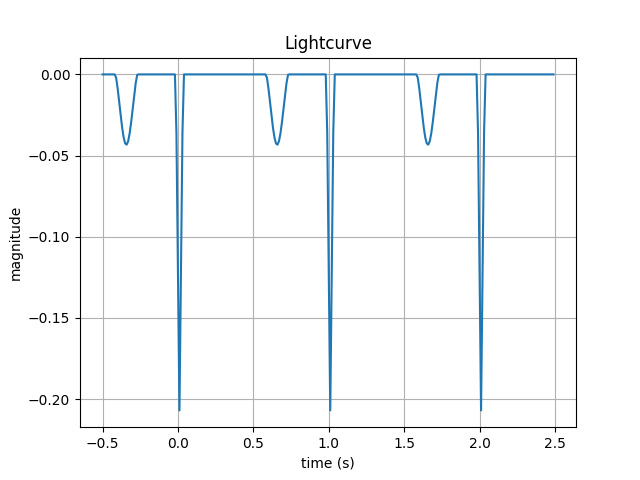
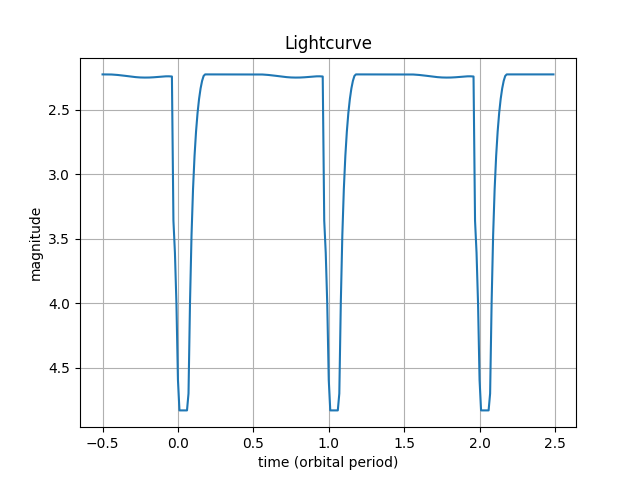
Added support for different types of stars

diff --git a/lightcurve/__init__.py b/lightcurve/__init__.py
@@ -1,0 +1,132 @@
+from scipy.optimize import fsolve
+import numpy as np
+
+V_SUN = 4.83
+
+class Orbit:
+    def __init__(self, a: float, e: float, i: float, Omega: float, omega: float):
+        """
+        # Parameters
+        a: semi-major axis (AU)
+        e: eccentricity
+        i: inclination
+        Omega: longitude of the ascending node
+        omega: argument of periapsis
+        """
+        self.a = a
+        self.e = e
+        self.i = i
+        self.Omega = Omega
+        self.omega = omega
+        m3 = np.array([[np.cos(Omega), np.sin(Omega), 0], [-np.sin(Omega), np.cos(Omega), 0], [0, 0, 1]])
+        m2 = np.array([[1, 0, 0], [0, np.cos(i), np.sin(i)], [0, -np.sin(i), np.cos(i)]])
+        m1 = np.array([[np.cos(omega), np.sin(omega), 0], [-np.sin(omega), np.cos(omega), 0], [0, 0, 1]])
+        m = (m1 @ m2 @ m3).T
+        self.conversion = m
+
+    def init_primaries(self, M1: float, M2: float, R1: float, R2: float, L1: float, L2: float):
+        """
+        Initialize the properties of the two primaries
+        
+        # Parameters
+        M1: mass of the first primary (solar mass)
+        M2: mass of the second primary (solar mass)
+        R1: radius of the first primary (solar radius)
+        R2: radius of the second primary (solar radius)
+        L1: luminosity of the first primary (solar luminosity)
+        L2: luminosity of the second primary (solar luminosity)
+        """
+        self.M1 = M1
+        self.M2 = M2
+        self.R1 = R1
+        self.R2 = R2
+        self.A1 = np.pi * R1**2
+        self.A2 = np.pi * R2**2
+        self.L1 = L1
+        self.L2 = L2
+        self.M = M1 + M2
+        self.mu = M1 * M2 / self.M
+        self.P = np.sqrt(self.a**3 / self.M)  # period (sidereal year)
+
+    def posiiton_sys(self, M: float):
+        """
+        Calculate the distance between two primaries in the system's coordinate system. 
+        Origin (0, 0, 0) is at the foci of the ellipse. 
+        periapsis = (a(1-e), 0, 0) 
+
+        # Parameters
+        M: mean anomaly
+        
+        # Returns
+        distance between the primaries (AU)
+        """ 
+        E = fsolve(lambda x: x - self.e*np.sin(x) - M, M)[-1]
+        r = (self.a * (np.cos(E) - self.e), self.a * np.sqrt(1 - self.e**2)*np.sin(E), 0.0)
+        return r
+
+    def position_ref(self, M: float):
+        """
+        Calculate the distance between two primaries in the reference coordinate system (x-y plane is the plane of the sky)
+        
+        # Parameters
+        M: mean anomaly
+        
+        # Returns
+        distance between the primaries (AU)
+        """
+        return self.conversion.dot(self.posiiton_sys(M))
+
+    def luminosity(self, M: float) -> float:
+        """
+        Calculate the luminosity of the system, as seen in the reference frame (x-y plane is the plane of the sky)
+
+        # Parameters
+        M: mean anomaly
+        
+        # Returns
+        luminosity of the system (solar luminosity)
+        """
+        r = self.position_ref(M)
+        d = np.sqrt(r[0]**2 + r[1]**2)
+        blocked = area_blocked(self.R1, self.R2, d)
+        b = self.L1 + self.L2
+        if r[2] < 0:
+            b -= blocked * self.L2 / self.A2
+        else:
+            b -= blocked * self.L1 / self.A1
+        return b
+
+    def magnitude(self, M: float) -> float:
+        """
+        Calculate the magnitude of the system, as seen in the reference frame (x-y plane is the plane of the sky)
+
+        # Parameters
+        M: mean anomaly
+        
+        # Returns
+        absolute magnitude of the system
+        """
+        return V_SUN -2.5*np.log10(self.luminosity(M))
+
+
+def area_blocked(r1: float, r2: float, d: float) -> float:
+    """
+    Calculate the blocked area by intersection of 2 disks.
+    
+    # Parameters
+    r1: radius of the first disk
+    r2: radius of the second disk
+    d: distance between the centers of the disks
+    
+    # Returns
+    visible area of the disk
+    """
+    if r1 + r2 <= d:
+        return 0
+    if r1 >= r2 + d:
+        return np.pi * r2**2
+    if r2 >= r1 + d:
+        return np.pi * r1**2
+    a1 = np.arccos((r1**2 + d**2 - r2**2)/(2*r1*d))
+    a2 = np.arccos((r2**2 + d**2 - r1**2)/(2*r2*d))
+    return r1**2 * a1 + r2**2 * a2 - r1 * d * np.sin(a1)

diff --git a/lightcurve/__main__.py b/lightcurve/__main__.py
@@ -1,97 +1,26 @@
-from scipy.optimize import fsolve
-import numpy as np
 import matplotlib.pyplot as plt
+import numpy as np
 
-def posiiton(e, M):
-    """
-    Calculate the position of a mass in an elliptical orbit.
-    Origin (0, 0, 0) is at the foci of the ellipse.
-    semi-major axis = 1
-    periapsis = (1-e, 0, 0)
-    
-    # Parameters
-    e: eccentricity
-    M: mean anomaly
-    
-    # Returns
-    position of the mass
-    """ 
-    E = fsolve(lambda x: x - e*np.sin(x) - M, M)[-1]
-    r = (np.cos(E) - e, np.sqrt(1 - e**2)*np.sin(E), 0.0)
-    return r
-
-def projected_coordinates(r, i, Omega, omega):
-    """
-    Calculate the projected coordinates of a mass in an elliptical orbit.
-    
-    # Parameters
-    r: position of the mass
-    i: inclination
-    Omega: longitude of the ascending node
-    omega: argument of periapsis
-    
-    # Returns
-    projected position of the mass
-    """
-    m3 = np.array([[np.cos(Omega), np.sin(Omega), 0], [-np.sin(Omega), np.cos(Omega), 0], [0, 0, 1]])
-    m2 = np.array([[1, 0, 0], [0, np.cos(i), np.sin(i)], [0, -np.sin(i), np.cos(i)]])
-    m1 = np.array([[np.cos(omega), np.sin(omega), 0], [-np.sin(omega), np.cos(omega), 0], [0, 0, 1]])
-    m = (m1 @ m2 @ m3).T
-    return m.dot(r)
-
-def disk_visible(r):
-    """
-    Calculate the visible area of a disk.
-    unocculted area of disk = 1
-    
-    # Parameters
-    r: distance of origin from the center of the disk
-    
-    # Returns
-    visible area of the disk
-    """
-    if r >= 1:
-        return 1
-    return (1 - (np.arccos(r) - r * np.sqrt(1 - r**2))/np.pi)
-
-
-def luminosity(a, e, i, Omega, omega, R, M):
-    """
-    Calculate the luminosity (visible disk area) of a mass in an elliptical orbit.
-    
-    # Parameters
-    e: eccentricity
-    i: inclination
-    Omega: longitude of the ascending node
-    omega: argument of periapsis
-    M: mean anomaly
-    a: semi-major axis
-    R: radius of the disk
-    
-    # Returns
-    lightcurve of the mass
-    """
-    r = posiiton(e, M)
-    r = projected_coordinates(r, i, Omega, omega)
-    r = np.sqrt(r[0]**2 + r[1]**2)
-    return disk_visible(r*a/R)
-
+from __init__ import Orbit
 
 def main():
     a = 3
-    e = 0.6
-    i = 0.45*np.pi
-    Omega = 0
-    omega = 0.4*np.pi
-    
+    e = 0.5
+    i = 0.6*np.pi
+    Omega = 1
+    omega = 0.8
+    orbit = Orbit(a, e, i, Omega, omega)
+    orbit.init_primaries(1, 0.01, 1, 2, 10, 1)
+
     t = np.arange(-0.5, 2.5, 0.01)
-    s = [np.log10(luminosity(a, e, i, Omega, omega, 1, 2 * np.pi * k)) for k in t]
+    s = [orbit.magnitude(2 * np.pi * k) for k in t]
 
     fig, ax = plt.subplots()
     ax.plot(t, s)
 
-    ax.set(xlabel='time (s)', ylabel='magnitude',
+    ax.set(xlabel='time (orbital period)', ylabel='magnitude',
         title='Lightcurve')
+    ax.invert_yaxis()
     ax.grid()
 
     fig.savefig("test.png")
